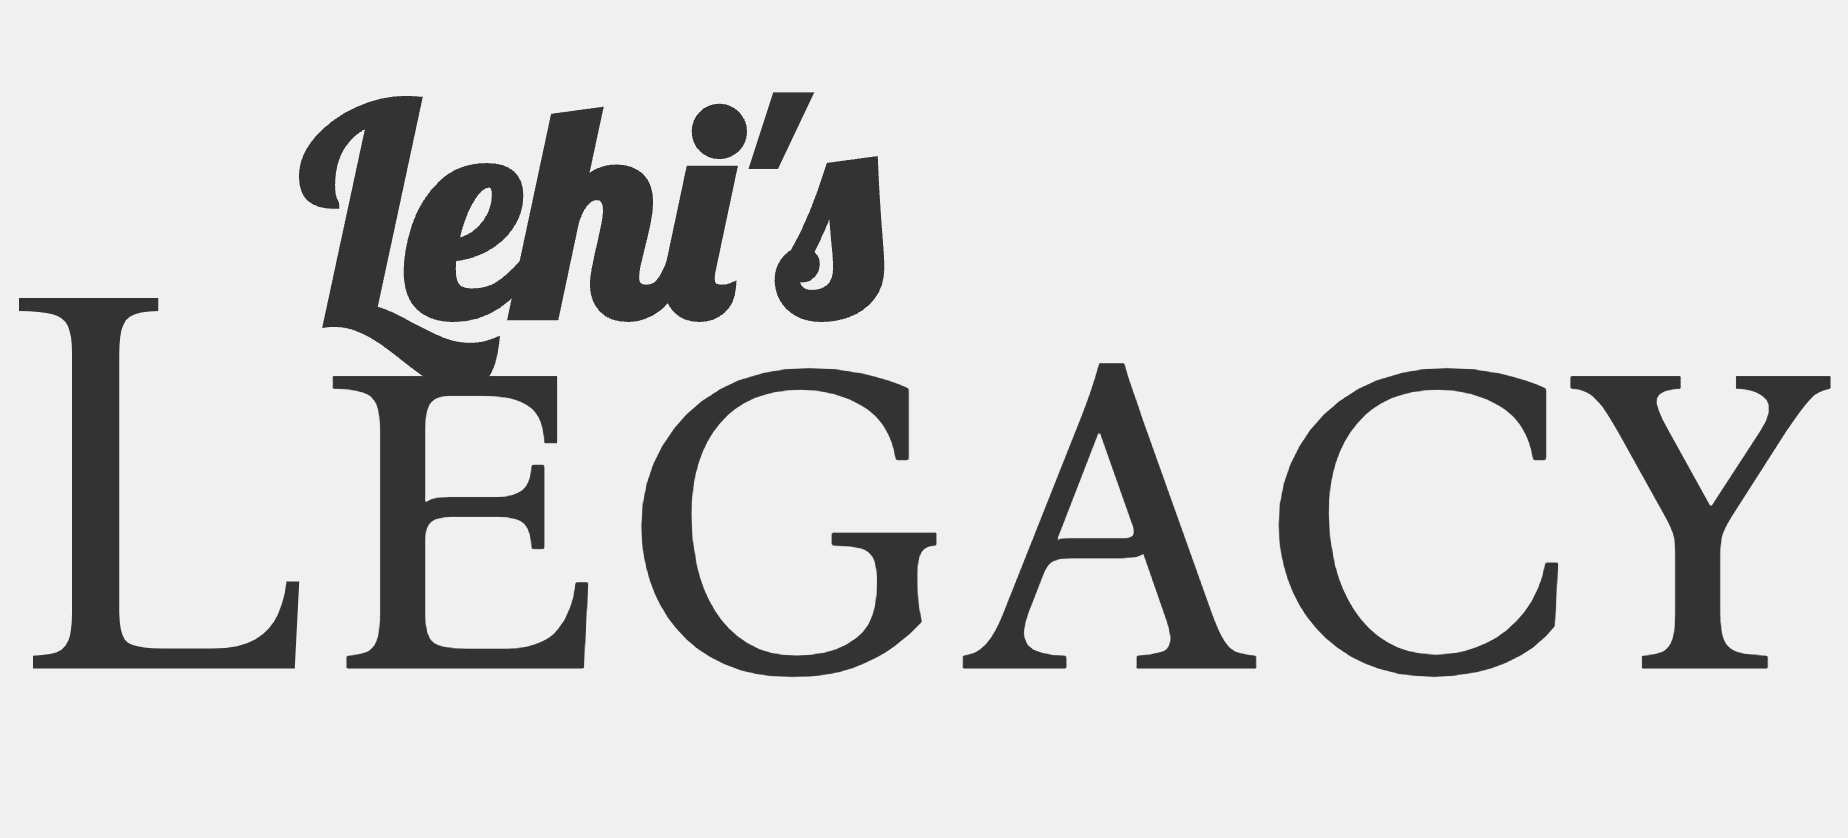
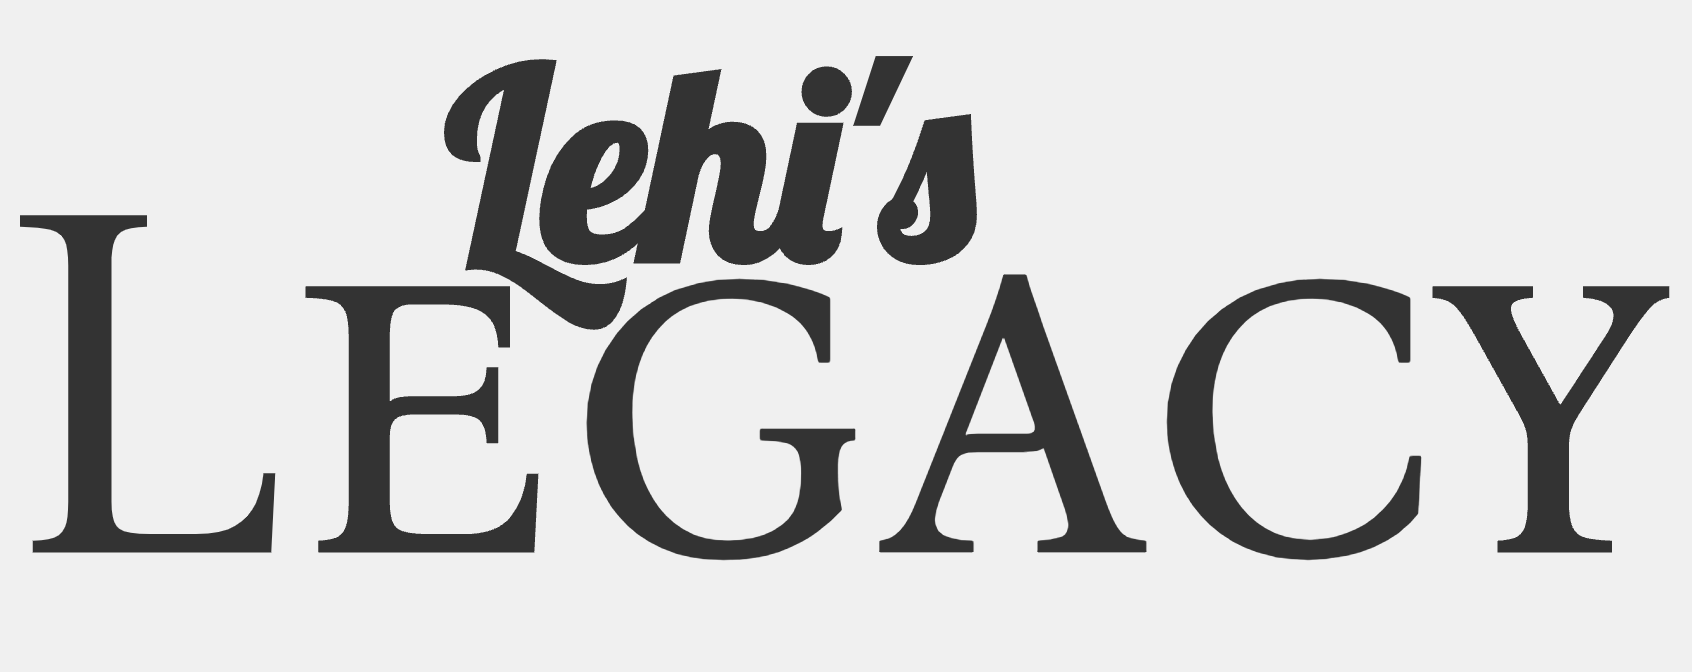
fix title spacing

diff --git a/src/components/StartScreen.jsx b/src/components/StartScreen.jsx
@@ -90,7 +90,7 @@ function StartScreen({ startGame }) {
         <div className="image-container">
           <img id="title" src="/title.png" alt="Lehi's Legacy" />
         </div>
-        {/* <h1 id='start-title'><span id='lehis'>Lehi's</span> <span id='legacy'>Legacy</span></h1> */}
+        <h1 id='start-title'><span id='lehis'>Lehi's</span> <span id='legacy'>Legacy</span></h1>
         <div className="button-group">
           <ButtonGroup variant="contained">
             <Button

diff --git a/src/assets/css/StartScreen.css b/src/assets/css/StartScreen.css
@@ -44,8 +44,8 @@
 #lehis {
     font-family: 'Lobster';
     position: absolute;
-    top: -20px;
-    left: 80px;
+    top: -15px;
+    left: 110px;
 }
 
 #title {
